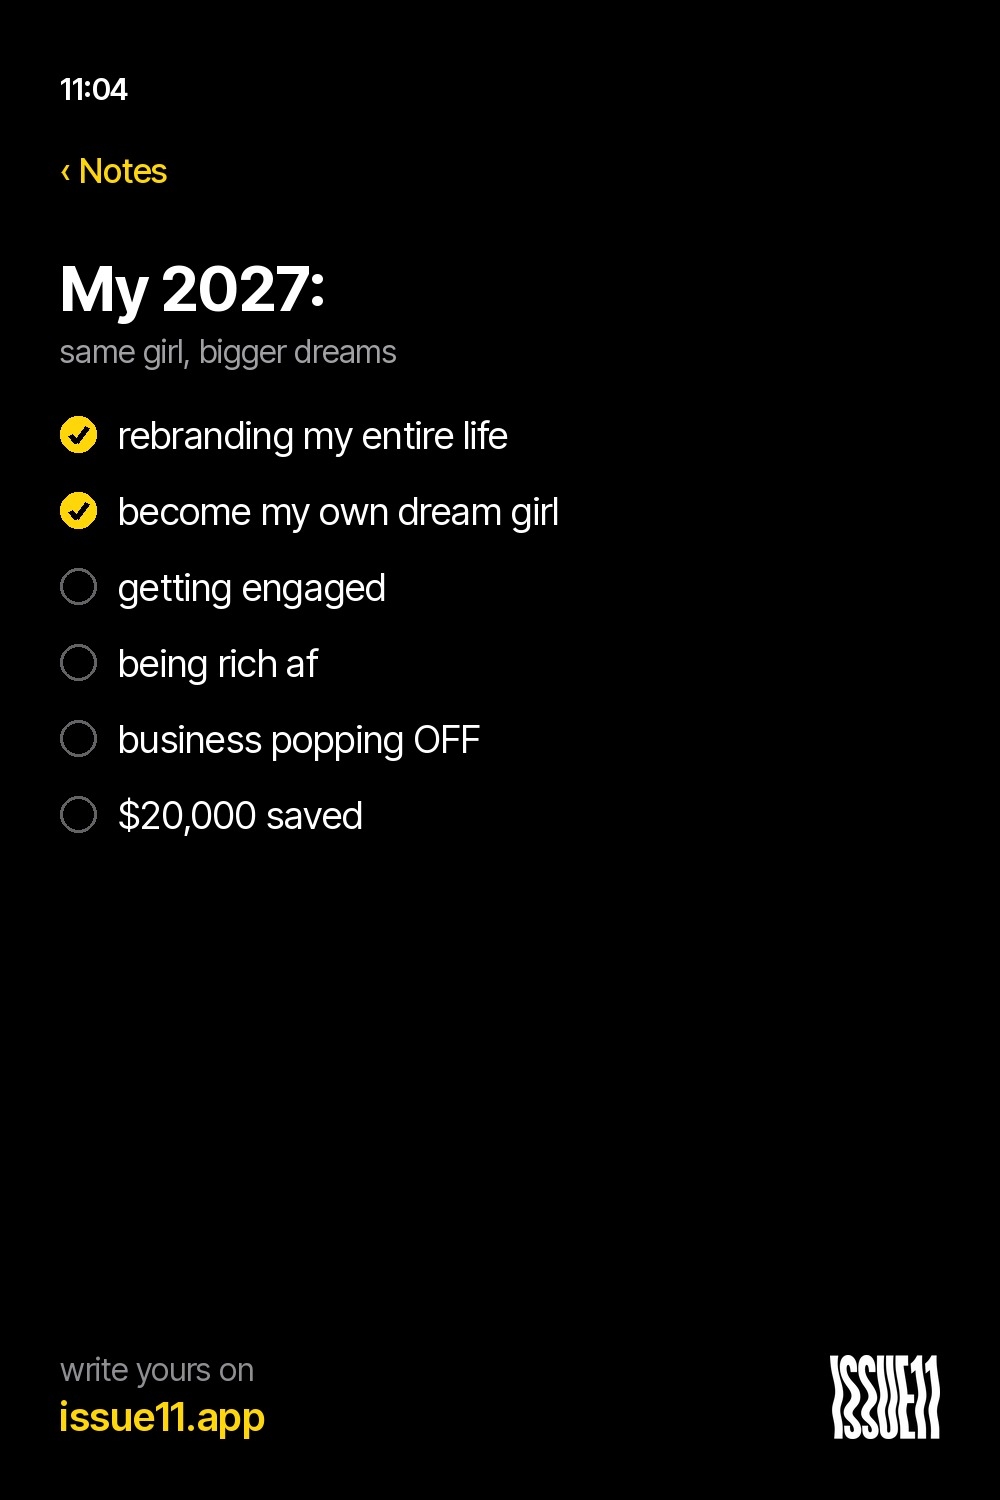
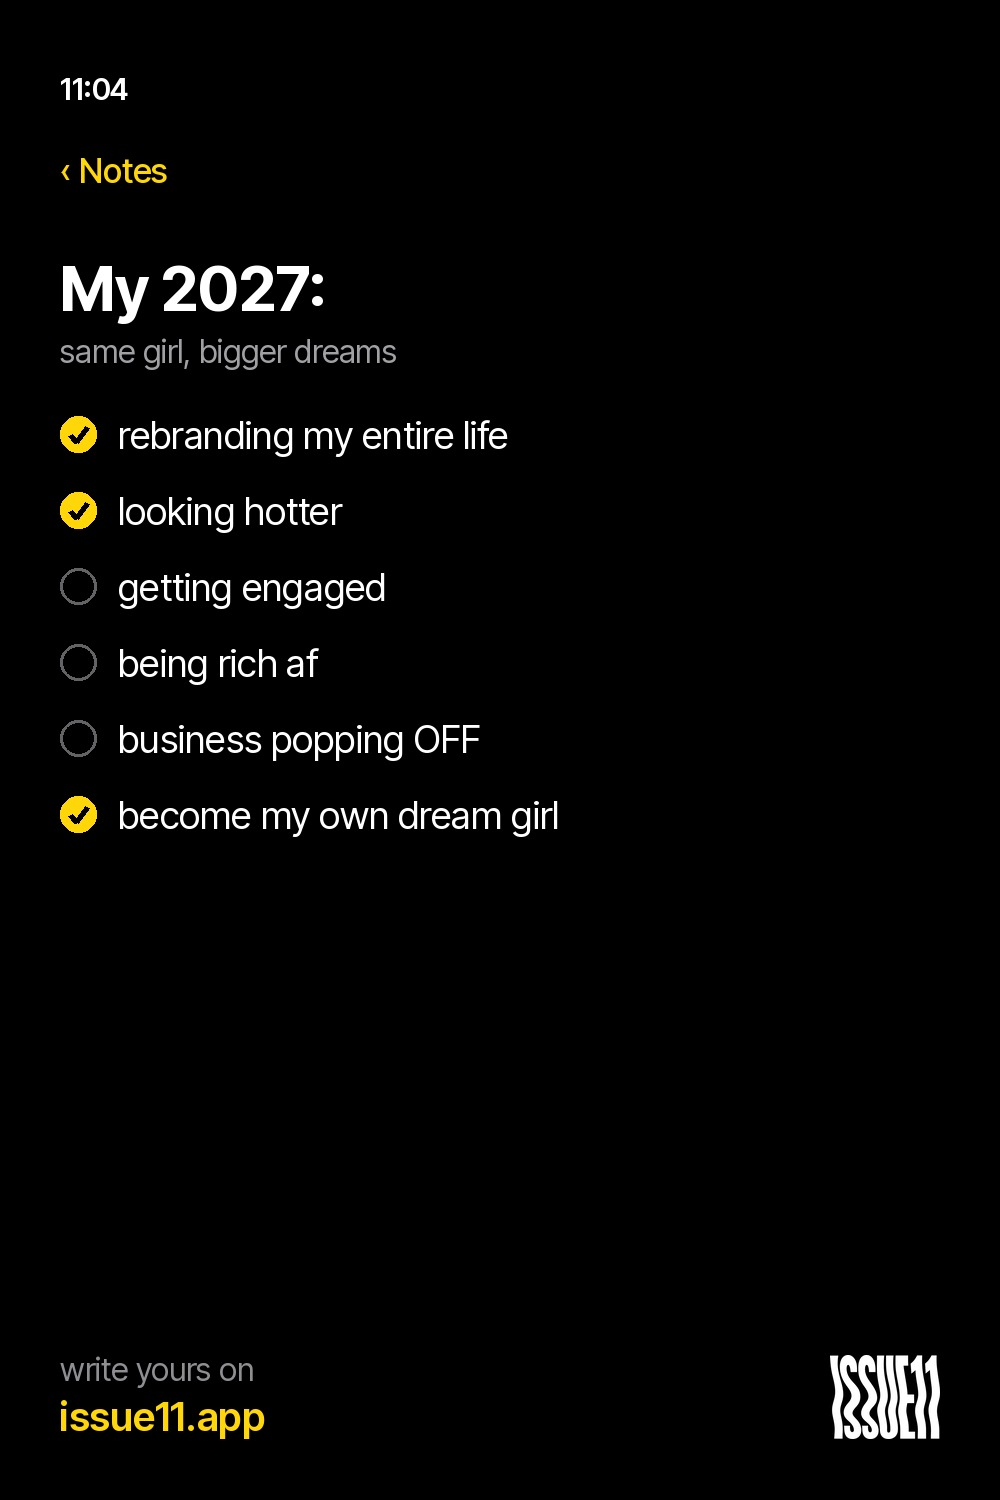
Pinterest: add "looking hotter" desire line
Claude-Session: https://claude.ai/code/session_013zCndAMB566ZdjtTW5BiS4

Changed region(s): [[0.062, 0.5213, 0.558, 0.552], [0.124, 0.3373, 0.558, 0.368]]

diff --git a/drafts/pinterest/templates/notes_v2.py b/drafts/pinterest/templates/notes_v2.py
@@ -12,7 +12,7 @@ def wrap(d,text,f,maxw):
         if d.textlength(t,font=f)>maxw and cur: out.append(cur); cur=w
         else: cur=t
     out.append(cur); return out
-TICK={'rebranding my entire life','glowing up','become my own dream girl'}
+TICK={'rebranding my entire life','glowing up','looking hotter','become my own dream girl'}
 EMO='\U0001FAF1\U0001F3FB\u200d\U0001FAF2\U0001F3FD'
 def notes(hook,hl,ps,out,sub=""):
     im=Image.new("RGBA",(W,H),(0,0,0)); d=ImageDraw.Draw(im)
@@ -51,7 +51,7 @@ def notes(hook,hl,ps,out,sub=""):
     d.text((60,H-108),"issue11.app",font=IT(40,"SemiBold"),fill=Y)
     paste_logo(im,_mk((255,255,255)),W-60-110,H-60-85,110)
     im.convert("RGB").save(OUT+out,quality=92); return y
-A=["rebranding my entire life","become my own dream girl","getting engaged","being rich af","business popping OFF","$20,000 saved"]
+A=["rebranding my entire life","looking hotter","getting engaged","being rich af","business popping OFF","become my own dream girl"]
 B=["rebranding my entire life","become my own dream girl","$20,000 saved","business popping OFF","getting engaged","being rich af"]
 C=["glowing up","become my own dream girl","being rich af","my dream home","business popping OFF","getting engaged"]
 print(notes("My 2027:",[],A,"D1-notes-11pm.jpg",sub="same girl, bigger dreams"))

diff --git a/drafts/pinterest/desire-bank.md b/drafts/pinterest/desire-bank.md
@@ -8,9 +8,9 @@ Megan's rule: list pins are written as the customer's desires, in her own words.
 - business popping OFF
 - become my own dream girl
 - $20,000 saved
-- rebranding my entire life (Lexicon) · glowing up (Megan, Nov 14)
+- rebranding my entire life (Lexicon) · glowing up · looking hotter (Megan, Nov 14)
 
-Ticks go only on identity lines (rebrand, glowing up, become my own dream girl), never on money or engagement lines, so a tick never reads as a promised result.
+Ticks go only on identity lines (rebrand, glowing up, looking hotter, become my own dream girl), never on money or engagement lines, so a tick never reads as a promised result.
 
 ## From the Lexicon (customer words)
 - my dream home · new car · debt free · my own business · dream bod
